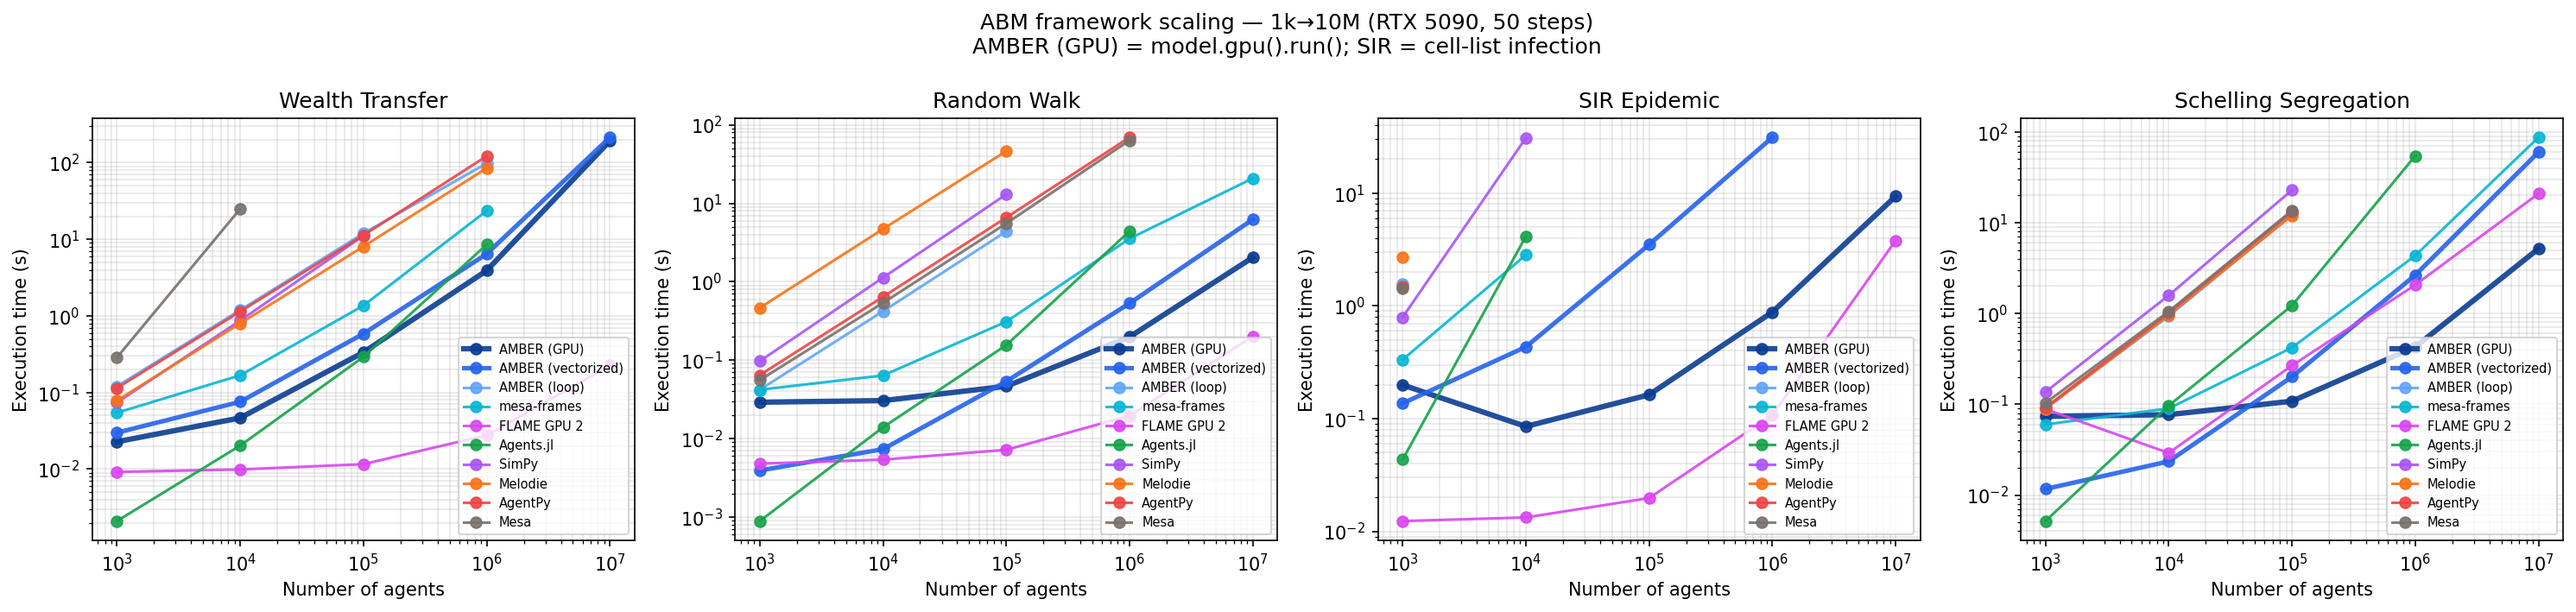
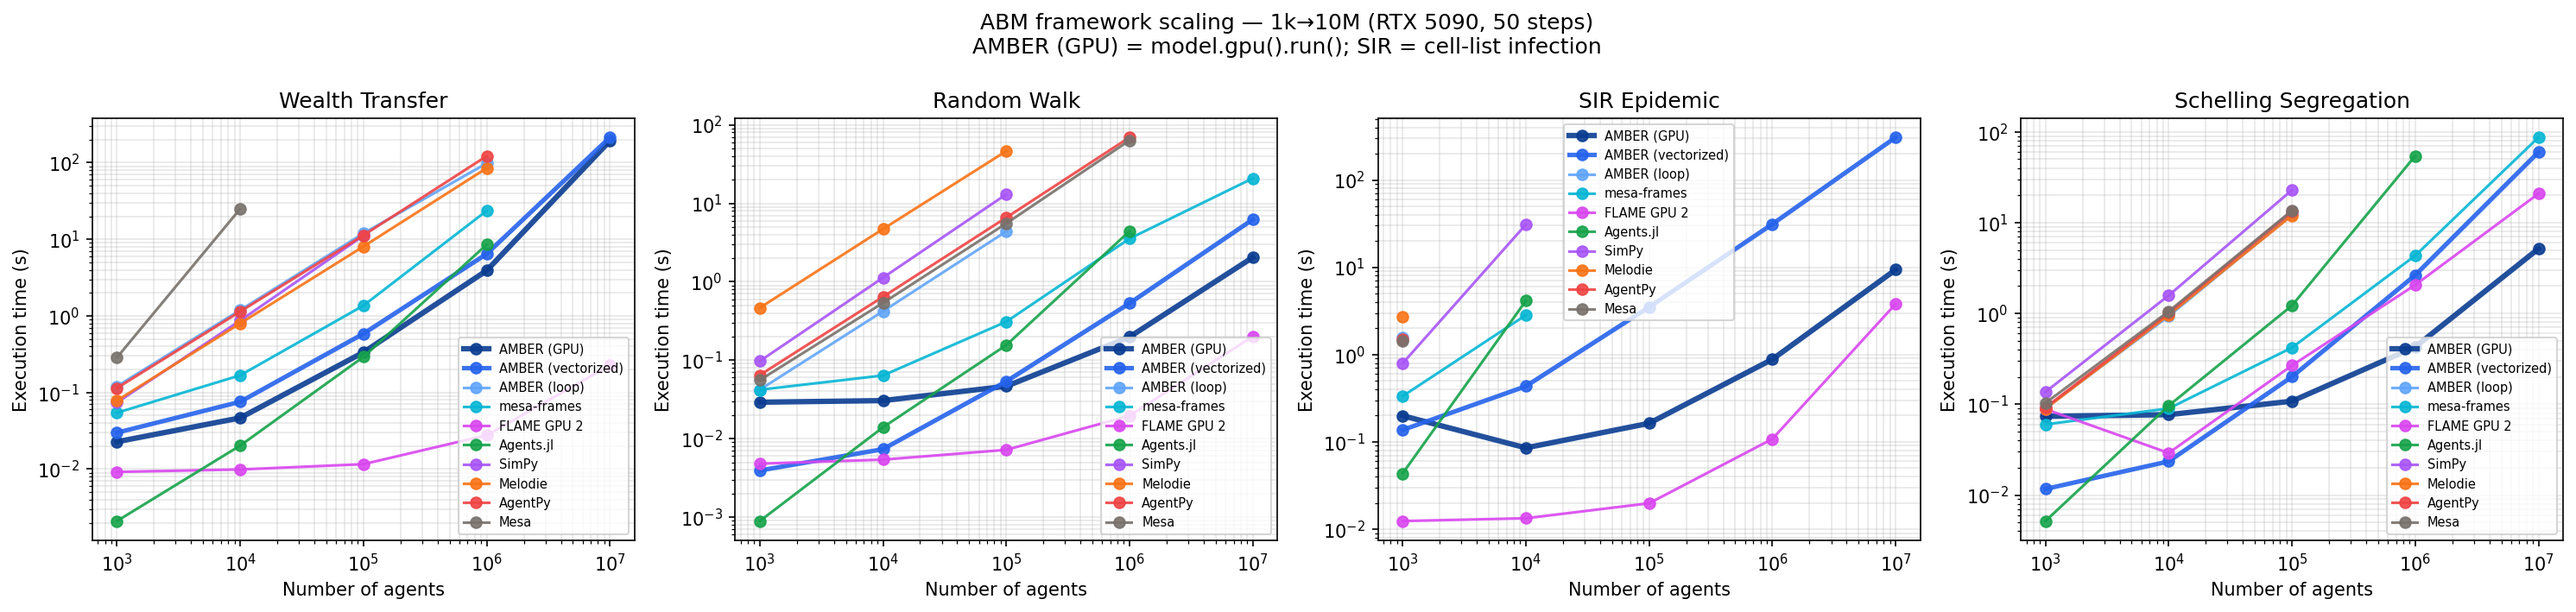
docs(bench): add vectorized SIR 10M timing (308 s)
Complete the cell-list SIR series on the large-N chart with the
AMBER (vectorized) 10M point from the RTX 5090 re-run.

Changed region(s): [[0.53, 0.1862, 0.7482, 0.8688], [0.7171, 0.2172, 0.7482, 0.2793], [0.4988, 0.2793, 0.53, 0.3103]]

diff --git a/benchmarks/results/summary_table.md b/benchmarks/results/summary_table.md
@@ -1,6 +1,6 @@
 # Large-N multi-framework scaling
 
-_NVIDIA RTX 5090, 50 steps, 10 runs (trimmed mean). AMBER (GPU) / AMBER (vectorized) use 0.4.3 native placement (`model.gpu().run()` / `cpu(mode="vectorized")`). AMBER SIR uses **cell-list** fixed-radius infection (O(N·K), `max_per_cell=64`). Other frameworks from the same host’s large-N sweep. Lower is better._
+_NVIDIA RTX 5090, 50 steps, trimmed mean (10 runs; vectorized SIR @ 10M used 3 runs). AMBER native placement; SIR = cell-list (max_per_cell=64). Lower is better._
 
 **Chart:** [`scaling_chart.png`](scaling_chart.png)
 
@@ -39,7 +39,7 @@ _NVIDIA RTX 5090, 50 steps, 10 runs (trimmed mean). AMBER (GPU) / AMBER (vectori
 | Framework | 1000 | 10000 | 100000 | 1000000 | 10000000 |
 |---|---:|---:|---:|---:|---:|
 | AMBER (GPU) | 199 ms | 85 ms | 163 ms | 882 ms | 9.39 s |
-| AMBER (vectorized) | 137 ms | 433 ms | 3.50 s | 31.3 s | — |
+| AMBER (vectorized) | 137 ms | 433 ms | 3.50 s | 31.3 s | 308 s |
 | AMBER (loop) | 1.56 s | — | — | — | — |
 | mesa-frames | 333 ms | 2.83 s | — | — | — |
 | FLAME GPU 2 | **12 ms** | **13 ms** | **20 ms** | **108 ms** | **3.80 s** |
@@ -66,7 +66,7 @@ _NVIDIA RTX 5090, 50 steps, 10 runs (trimmed mean). AMBER (GPU) / AMBER (vectori
 
 ## Notes
 
-- **AMBER (GPU)** is the same view-API `step` under `.gpu().run()` (CuPy / NVIDIA).
-- **SIR:** AMBER uses cell-list infection (not all-pairs). Vectorized 10M was above the 120s/run budget in this pass (1M = 31.3 s); GPU reaches 10M at ~9.4 s.
-- Object-oriented frameworks often drop out above 100k–1M (budget/OOM).
+- **AMBER (GPU)** = same view-API step under `.gpu().run()`.
+- **SIR:** cell-list infection. AMBER GPU 10M = 9.39 s; vectorized 10M = 308 s; FLAME 10M = 3.80 s.
+- Object OOP frameworks often drop out above 100k–1M.
 - Reproduce: `python benchmarks/run_all_frameworks.py --agents 1000 10000 100000 1000000 10000000 --steps 50 --runs 10`.

diff --git a/docs/benchmarks.rst b/docs/benchmarks.rst
@@ -32,14 +32,14 @@ Model             AMBER (GPU)        AMBER (vectorized)     FLAME GPU 2        N
 Wealth            3.91 s / 193 s     6.44 s / 214 s         28 ms / 226 ms     Agents.jl 8.53 s @ 1M
 Random walk       198 ms / 2.04 s    531 ms / 6.23 s        20 ms / 201 ms     mesa-frames 3.55 s / 20.8 s
 Schelling         428 ms / 5.17 s    2.64 s / 59.8 s        2.06 s / 20.8 s    mesa-frames 4.33 s / 86.9 s
-SIR (cell-list)   882 ms / 9.39 s    31.3 s / —             108 ms / 3.80 s    —
+SIR (cell-list)   882 ms / 9.39 s    31.3 s / 308 s         108 ms / 3.80 s    —
 ================  =================  =====================  =================  ===========================
 
 - **Schelling:** AMBER (GPU) is the fastest measured row at 1M and 10M.
 - **Wealth / random walk:** FLAME GPU 2 leads; AMBER (GPU) still leads other
   Python-hosted stacks that reach those scales.
-- **SIR:** AMBER uses **cell-list** infection (GPU reaches 10M at 9.39 s).
-  FLAME still leads; vectorized 10M exceeded the 120 s/run budget in this pass.
+- **SIR:** AMBER uses **cell-list** infection. GPU 10M = 9.39 s (~33× vs
+  vectorized 308 s); FLAME still leads at 3.80 s.
 - **Reproduce:**
   ``python benchmarks/run_all_frameworks.py --agents 1000 10000 100000 1000000 10000000 --steps 50 --runs 10``
   then ``python benchmarks/plot_scaling_with_gpu_schelling.py``.

diff --git a/README.md b/README.md
@@ -34,14 +34,14 @@ Correctness gates:
 | Wealth | 3.91 s / 193 s | 6.44 s / 214 s | **28 ms / 226 ms** | Agents.jl 8.53 s @ 1M |
 | Random walk | 198 ms / 2.04 s | 531 ms / 6.23 s | **20 ms / 201 ms** | mesa-frames 3.55 s / 20.8 s |
 | Schelling | **428 ms / 5.17 s** | 2.64 s / 59.8 s | 2.06 s / 20.8 s | mesa-frames 4.33 s / 86.9 s |
-| SIR (cell-list) | 882 ms / **9.39 s** | 31.3 s / — | **108 ms / 3.80 s** | — |
+| SIR (cell-list) | 882 ms / **9.39 s** | 31.3 s / 308 s | **108 ms / 3.80 s** | — |
 
 - **Schelling:** AMBER (GPU) is the fastest row at 1M and 10M among measured
   frameworks (beats FLAME GPU 2 and mesa-frames).
 - **Wealth / random walk:** FLAME GPU 2 leads; AMBER (GPU) still beats other
   Python-hosted stacks that reach those scales.
-- **SIR:** AMBER uses **cell-list** infection (scales to 10M on GPU at 9.39 s).
-  FLAME still leads; vectorized 10M was above the 120 s/run budget (1M = 31.3 s).
+- **SIR:** AMBER uses **cell-list** infection. GPU reaches 10M at 9.39 s
+  (~33× faster than vectorized’s 308 s); FLAME still leads at 3.80 s.
 - **API:** write the view-API `step` once; place with `.cpu(mode="vectorized")`
   or `.gpu()`. Details: [`benchmarks/README.md`](benchmarks/README.md).
 

diff --git a/benchmarks/README.md b/benchmarks/README.md
@@ -116,7 +116,7 @@ models under `model.gpu().run()` (0.4.3+).
 | Wealth | 3.91 s / 193 s | 6.44 s / 214 s | **28 ms / 226 ms** | Agents.jl 8.53 s @ 1M |
 | Random walk | 198 ms / 2.04 s | 531 ms / 6.23 s | **20 ms / 201 ms** | mesa-frames 3.55 s / 20.8 s |
 | Schelling | **428 ms / 5.17 s** | 2.64 s / 59.8 s | 2.06 s / 20.8 s | mesa-frames 4.33 s / 86.9 s |
-| SIR (cell-list) | 882 ms / **9.39 s** | 31.3 s / — | **108 ms / 3.80 s** | — |
+| SIR (cell-list) | 882 ms / **9.39 s** | 31.3 s / 308 s | **108 ms / 3.80 s** | — |
 
 ## Interpreting the numbers
 
@@ -124,8 +124,7 @@ models under `model.gpu().run()` (0.4.3+).
 * **Wealth / random walk:** FLAME GPU 2 leads; AMBER (GPU) still leads other
   Python-hosted stacks that reach those scales. Light kernels pay GPU overhead.
 * **SIR:** AMBER uses **cell-list** infection (O(N·K), `max_per_cell=64`).
-  GPU reaches 10M at 9.39 s; FLAME still leads. Vectorized 10M was above the
-  120 s/run budget (1M = 31.3 s).
+  GPU 10M = 9.39 s (~33× vs vectorized 308 s); FLAME still leads at 3.80 s.
 * Object OOP frameworks (Mesa, AgentPy, …) typically drop out above 100k–1M.
 
 **Sync vs async SIR update semantics.** AMBER (vectorized) uses a
